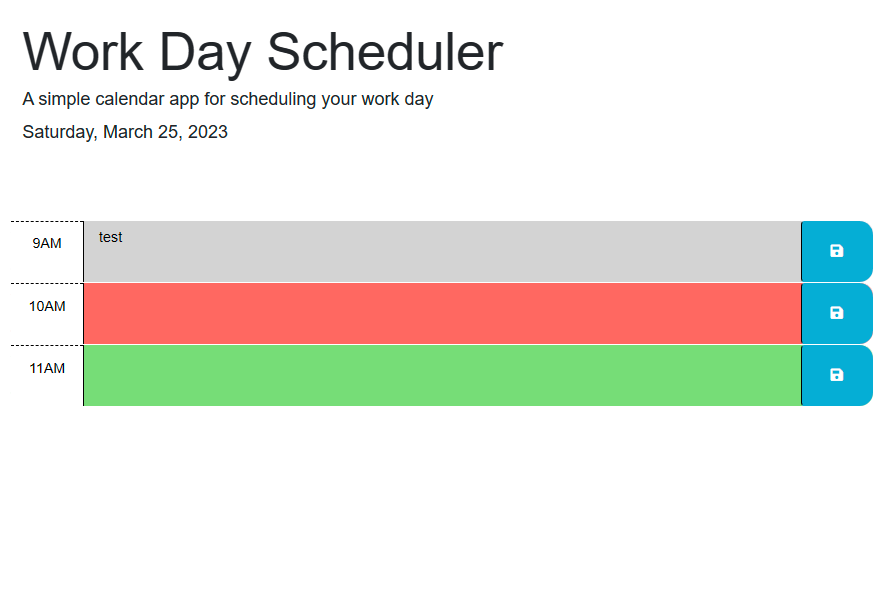
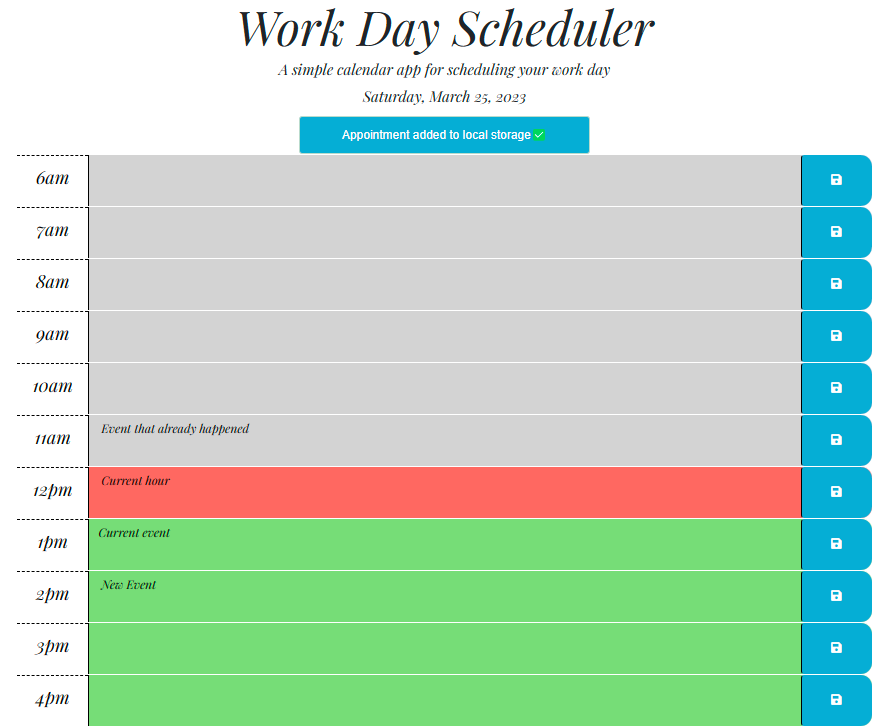
Removed the padding and margins on header. Updated readme preview picture to be current. Other minor changes.

diff --git a/Assets/css/style.css b/Assets/css/style.css
@@ -13,6 +13,11 @@ header {
   padding: 0%;
 }
 
+header.p-5.mb-4 {
+  margin: 0 !important;
+  padding: 0 !important;
+}
+
 textarea {
   font-family: 'Playfair Display', serif;
   background: transparent;
@@ -41,7 +46,7 @@ textarea {
   background-color: #ffffff;
   color: #000000;
   border-top: 1px dashed #000000;
-  font-size: xx-large;
+  font-size: x-large;
 }
 
 .past {
@@ -68,7 +73,6 @@ textarea {
 }
 
 .saveBtn i:hover {
-  font-size: 20px;
   transition: all 0.3s ease-in-out;
 }
 
@@ -77,7 +81,7 @@ textarea {
   justify-content: center;
   align-items: center;
   margin: 0 auto;
-  padding: 10px;
-  width: 35%;
-  
+  width: 32%;
+  background-color: #06aed5;
+  color: #ffffff;
 }

diff --git a/Assets/js/script.js b/Assets/js/script.js
@@ -18,7 +18,7 @@ function generateTimeBlocks(startHour, endHour) {
   }
 }
 
-function showMessage(duration = 4000) {
+function showMessage(duration = 5000) {
   $('#message').removeClass('d-none');
   setTimeout(() => {
     $('#message').addClass('d-none');
